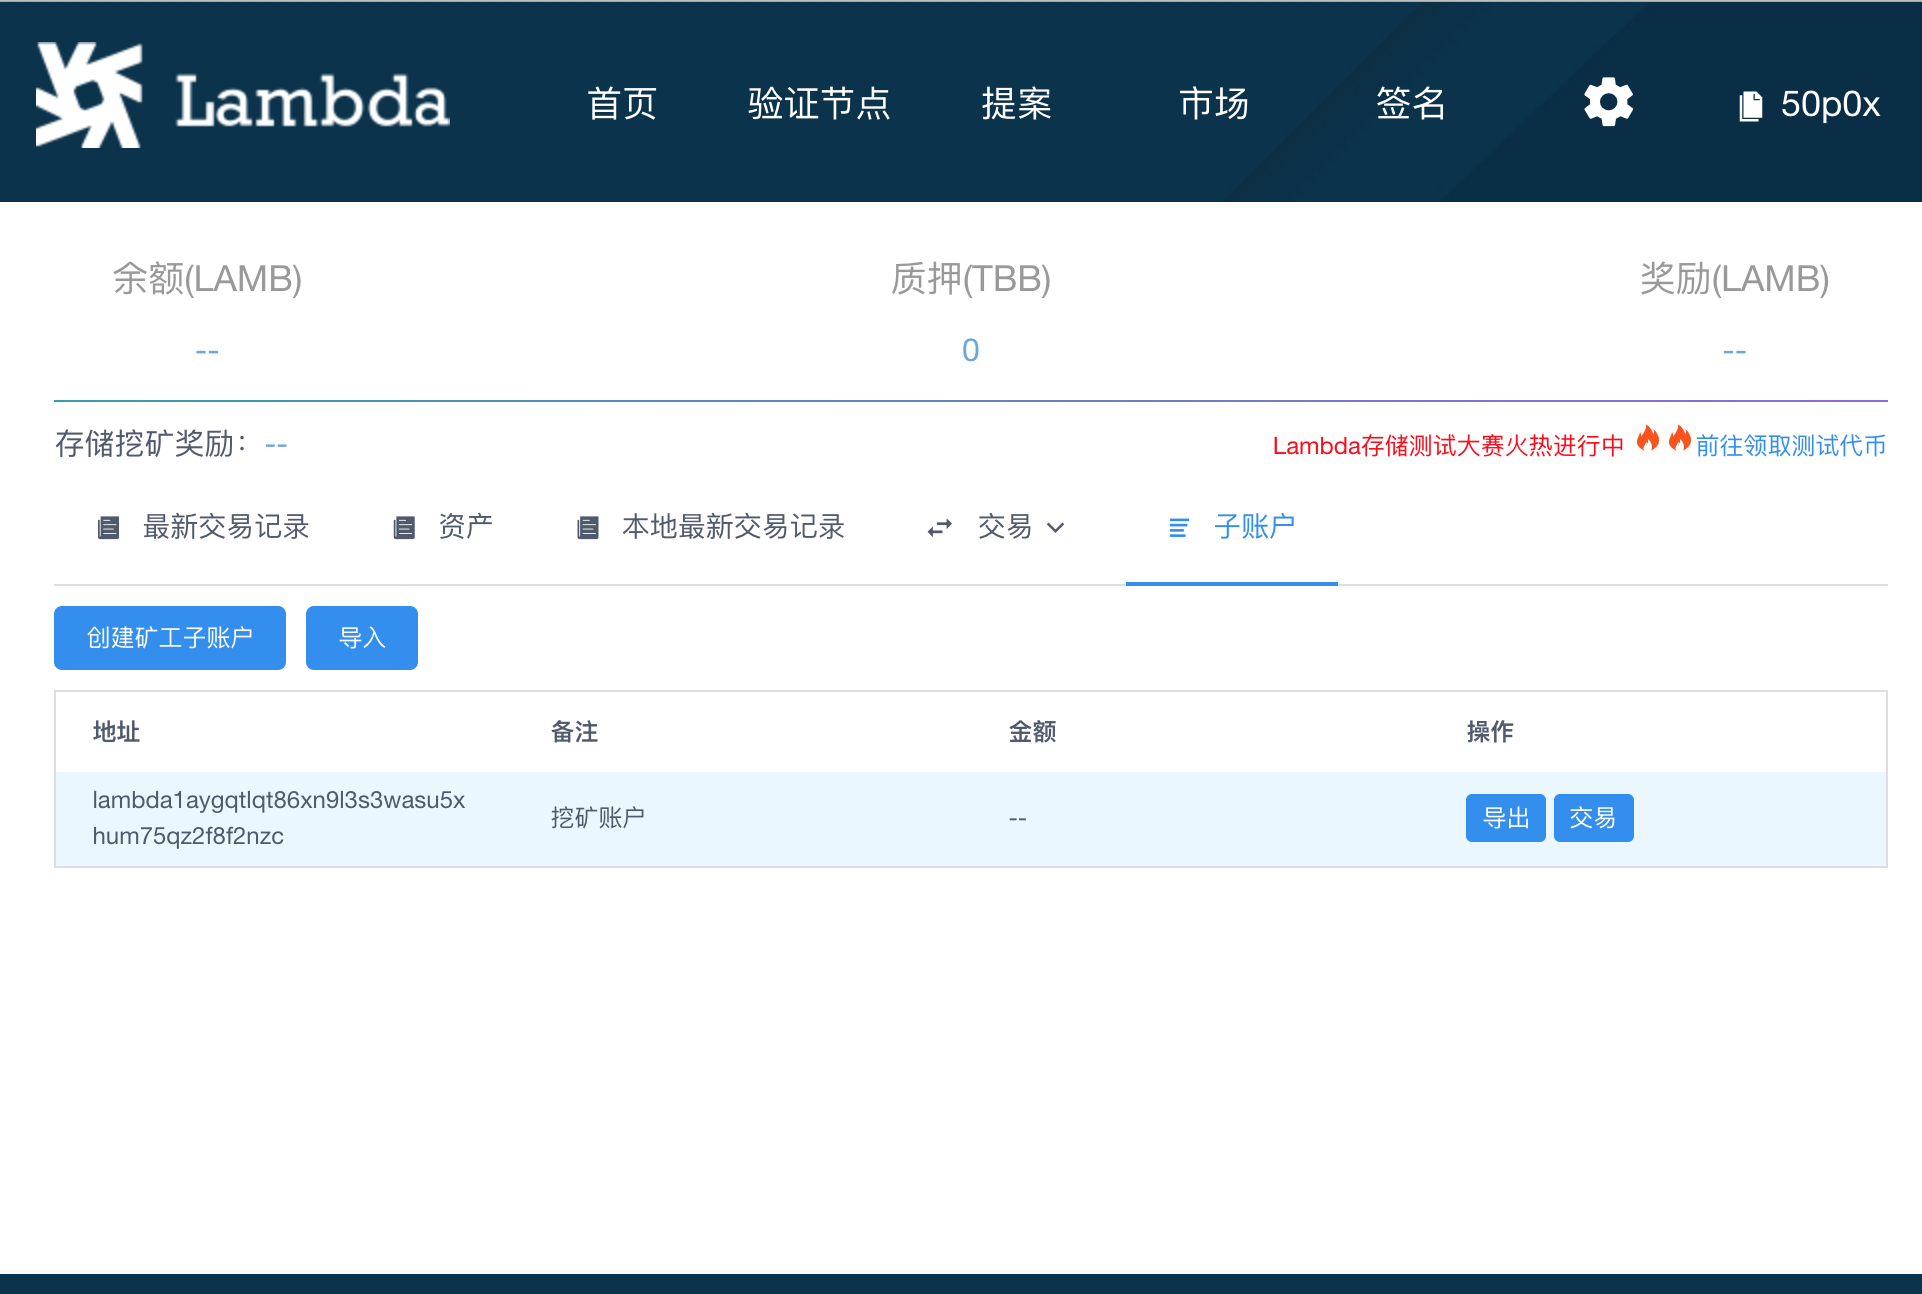
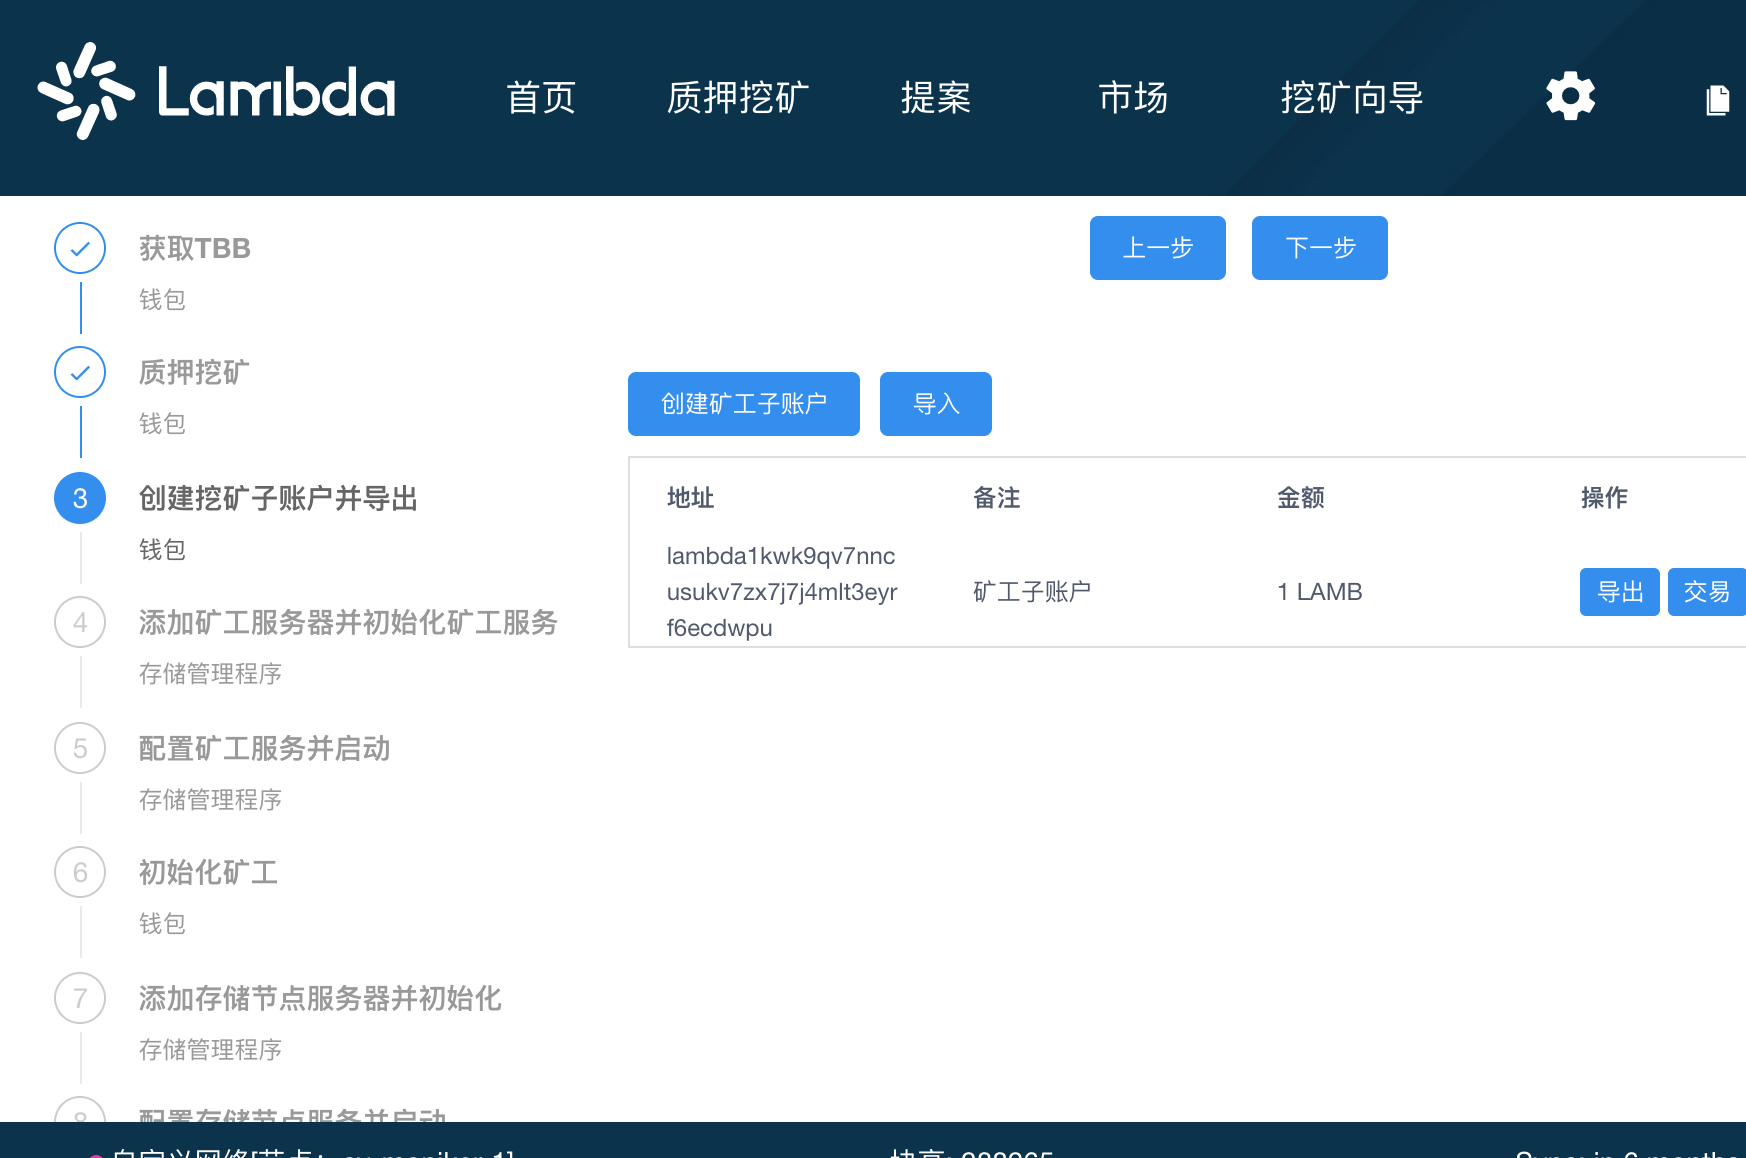
文档截图

diff --git a/docs/Lambda-Wallet-Guide.md b/docs/Lambda-Wallet-Guide.md
@@ -32,7 +32,7 @@
 * [打开lambdaS3控制台](#打开lambdaS3控制台)
 * [主网和测试网的切换](#主网和测试网的切换)
 * [挖矿子账户创建导出导入](#挖矿子账户创建导出导入)
-* [创建矿工](#创建矿工)
+* [初始化矿工](#初始化矿工)
 * [选择使用钱包身份角色](#选择使用钱包身份角色)
 * [挖矿向导](#挖矿向导)
 * [设置gas价格](#设置gas价格)
@@ -372,7 +372,7 @@ TBB可用于质押
 
 ## 挖矿子账户创建导出导入
 
-在钱包首页点击子账户链接，切换到子账户标签页
+在钱包首页点击挖矿，向导，点击下一步，直到看到创建子账户模块
 
 ![avatar](img/sonaccount.png)
 
@@ -406,15 +406,11 @@ TBB可用于质押
 例如 在矿工管理程序中选择钱包导出的子账户
 ![avatar](img/sonaccountd5.png)
 
-## 创建矿工
+## 初始化矿工
 
-点击钱包的市场页面，再点击我出售的空间面板，可以看到矿工初始化按钮
-
-![avatar](img/marketd1.png)
-
+点击导航菜单的挖矿向导，在挖矿向导页面点击下一步，直到看到初始化矿工模块
 点击矿工初始化按钮，打开创建矿工弹窗
-
-![avatar](img/marketd2.png)
+![avatar](img/minersetup.png)
 
 创建矿工需要选择钱包中的子账户和部署矿工服务器的dhtid
 可以在 矿工管理程序中获取一个矿工服务的 dhtid
@@ -457,6 +453,8 @@ TBB可用于质押
 3初始化矿工
 
 4出售空间
+
+
 
 
 ## 设置gas价格
